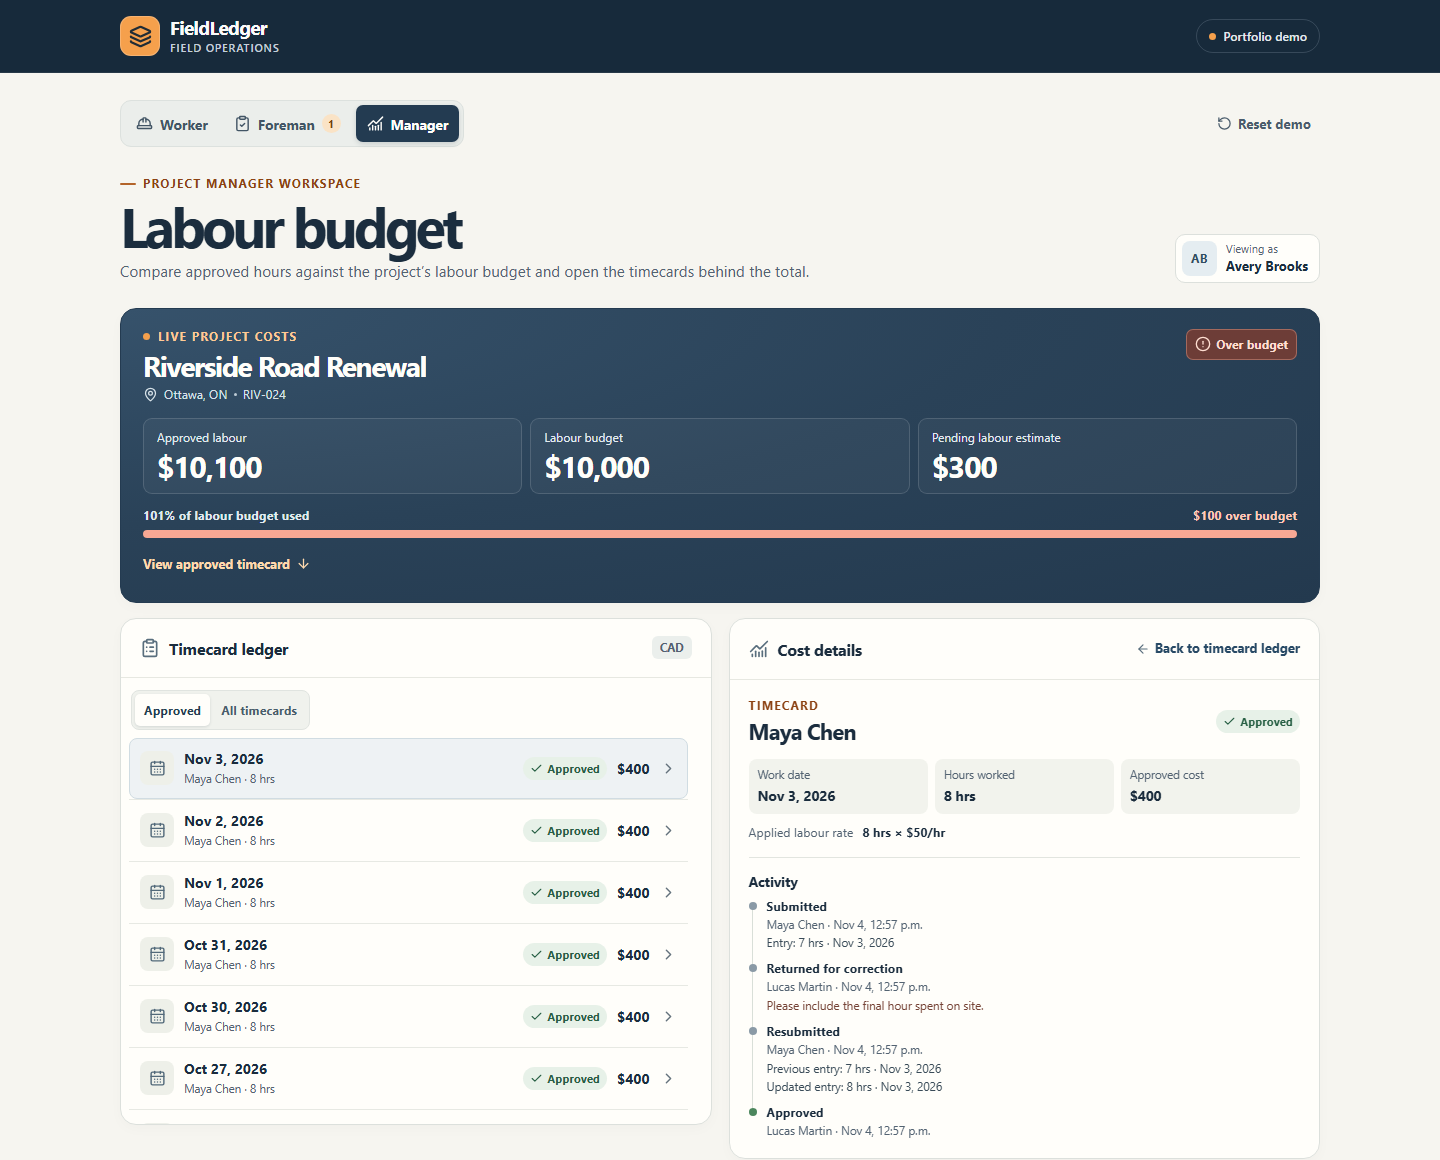
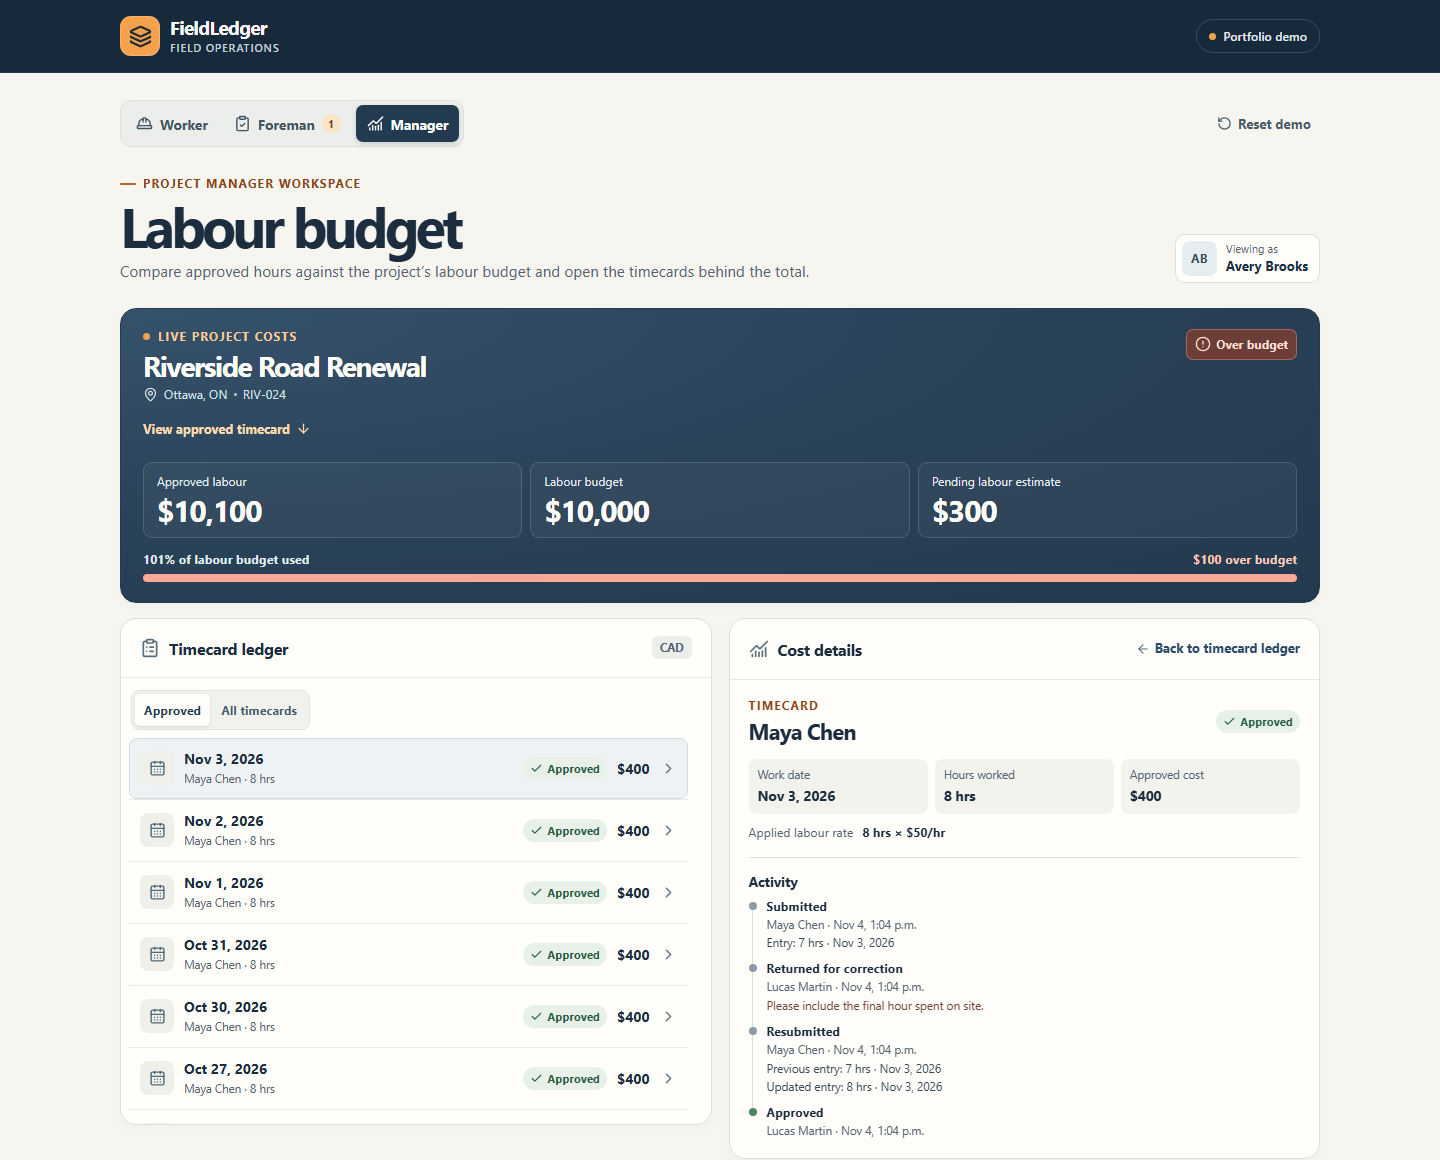
Keep the mobile budget readable across system fonts

Changed region(s): [[0.0938, 0.3414, 0.9062, 0.5276]]

diff --git a/src/workspace.tsx b/src/workspace.tsx
@@ -619,6 +619,7 @@ function Budget({ project, openTimecard, costsStale }: { project: Workspace['pro
         <div><p className="eyebrow"><span className="signal-dot" /> {costsStale ? 'Last saved project costs' : 'Live project costs'}</p><h2>{project.name}</h2><p><MapPin size={15} /> {project.location} <span className="budget-divider" /> {project.code}</p></div>
         <span className={`budget-state${overBudget ? ' budget-state-over' : ''}`}>{overBudget ? <CircleAlert size={16} /> : <Check size={16} />} {overBudget ? 'Over budget' : 'Within budget'}</span>
       </div>
+      {openTimecard && <button className="budget-handoff" type="button" aria-controls="cost-details" onClick={openTimecard}>View approved timecard <ArrowDown size={15} /></button>}
       <div className="budget-metrics">
         <div><span>Approved labour</span><output id="approved-total" aria-label="Approved labour">{money(project.approvedCents)}</output></div>
         <div><span>Labour budget</span><strong>{money(project.budgetCents)}</strong></div>
@@ -628,7 +629,6 @@ function Budget({ project, openTimecard, costsStale }: { project: Workspace['pro
         <div><strong>{percentage}% of labour budget used</strong><span className={overBudget ? 'over-amount' : ''}>{money(Math.abs(balance))} {overBudget ? 'over budget' : 'remaining'}</span></div>
         <progress className={overBudget ? 'over-progress' : ''} max={100} value={Math.min(used, 100)} aria-hidden="true" />
       </div>
-      {openTimecard && <button className="budget-handoff" type="button" aria-controls="cost-details" onClick={openTimecard}>View approved timecard <ArrowDown size={15} /></button>}
     </section>
   )
 }

diff --git a/src/styles.css b/src/styles.css
@@ -314,13 +314,16 @@ svg { display: block; flex-shrink: 0; }
   .workspace-heading { display: grid; gap: 10px; margin-bottom: 16px; }
   .workspace-heading p:not(.eyebrow) { font-size: .84rem; }
   .persona { justify-self: start; padding: 4px 7px 4px 4px; }
-  .avatar { width: 29px; height: 29px; }
-  .panel-heading { min-height: 50px; padding: 12px 13px; }
+  .avatar { width: max(29px, 1.65em); height: max(29px, 1.65em); flex-shrink: 0; }
+  .panel-heading { min-height: 50px; padding: 12px 13px; flex-wrap: wrap; }
+  .panel-heading > div, .card-summary-header > div { min-width: 0; overflow-wrap: anywhere; }
+  .detail-back { max-width: 100%; overflow-wrap: anywhere; }
   .panel-body { padding: 13px; }
   .form-fields { grid-template-columns: repeat(auto-fit, minmax(min(100%, 7.8rem), 1fr)); }
   .card-list { padding-inline: 5px; }
   .card-row { gap: 7px; padding-inline: 6px; }
   .card-row-icon { width: 30px; height: 30px; }
+  .card-summary-header { flex-wrap: wrap; }
   .card-facts.has-cost { grid-template-columns: repeat(auto-fit, minmax(min(100%, 4.7rem), 1fr)); }
   .row-correction, .inline-details { padding-left: 43px; }
   .notice, .error-message { margin-top: -5px; }
